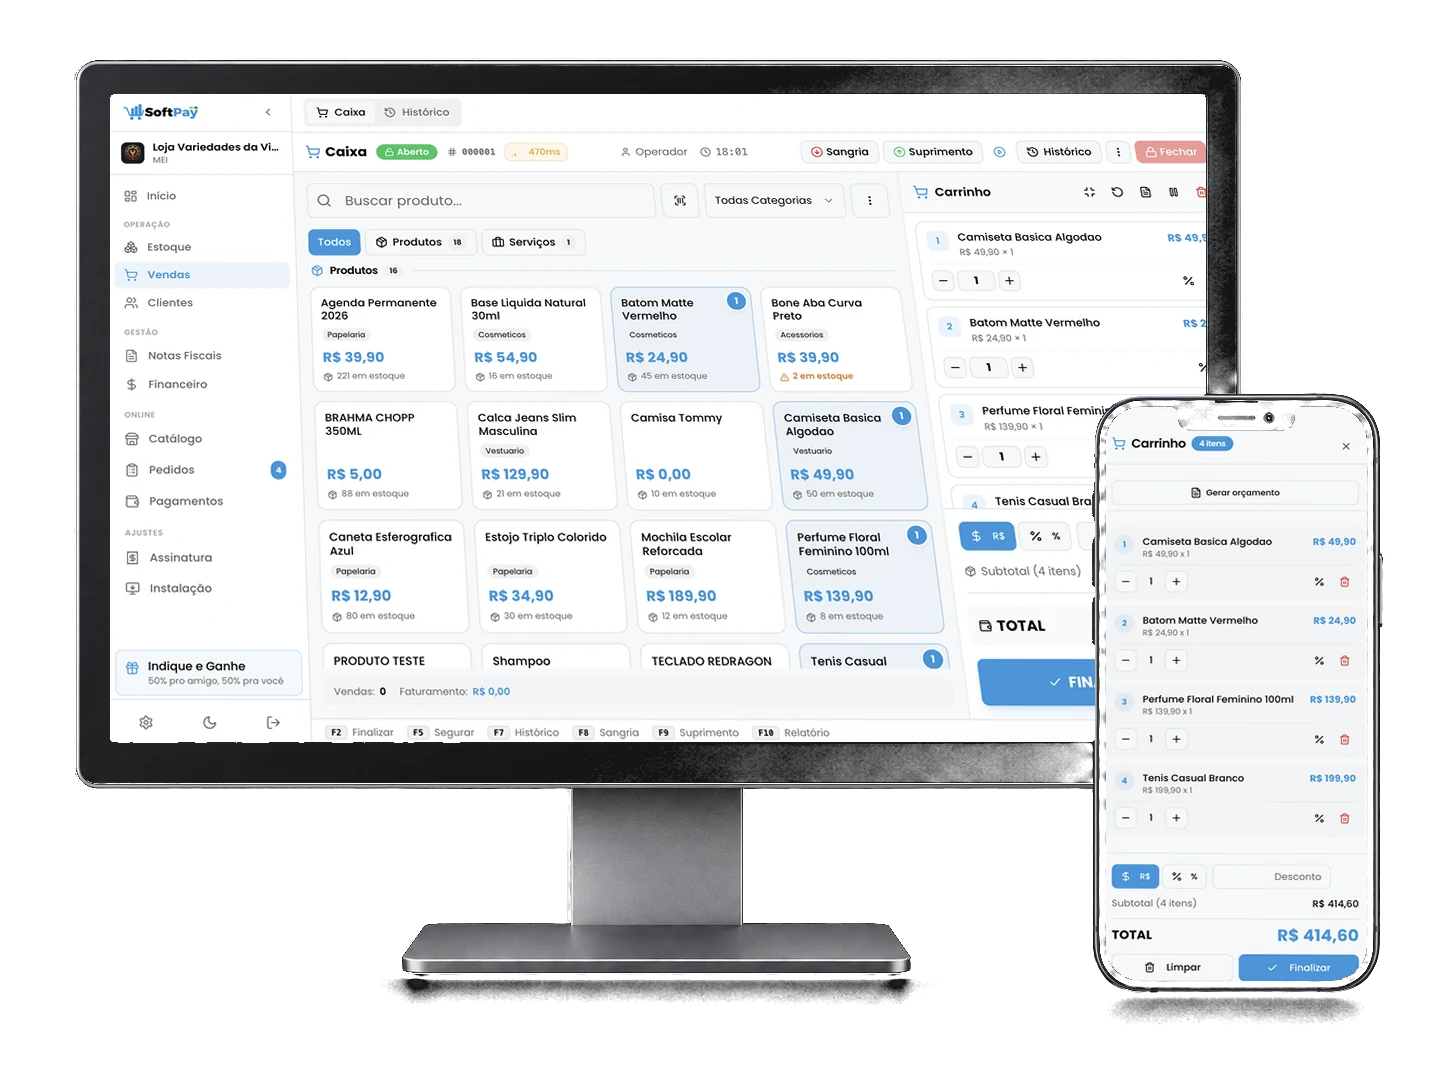
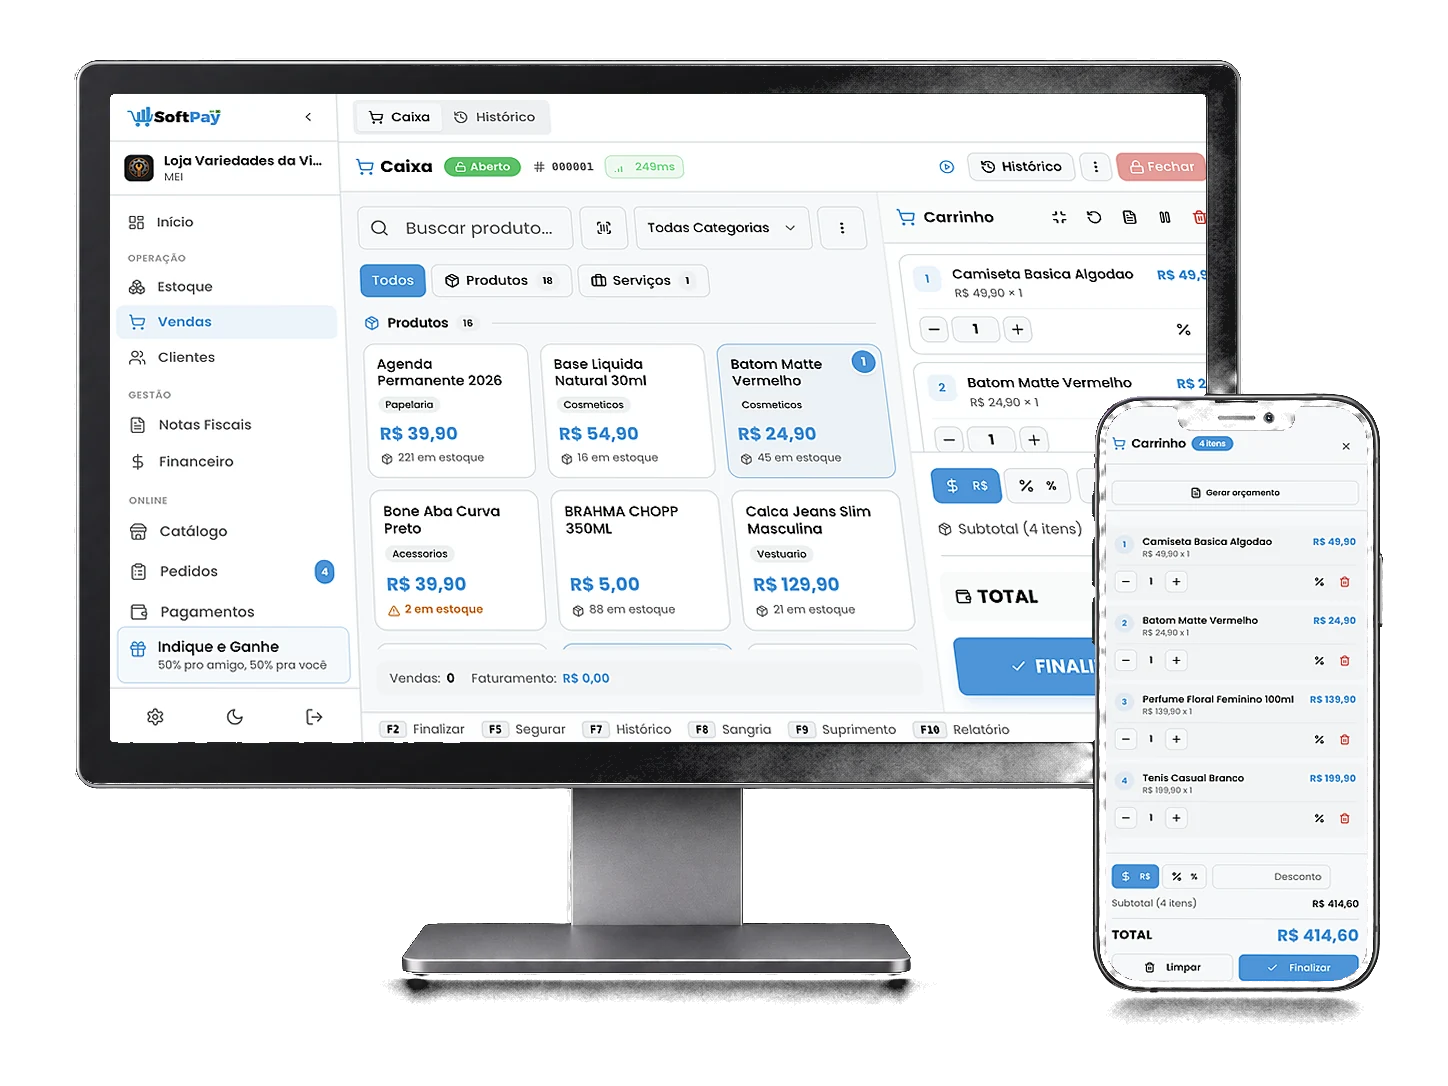
As telas dentro dos aparelhos ficam legíveis: captura menor, mais nitidez, estado limpo
"As imagens dentro dos aparelhos continuam um lixo" (Victor, 20/09/2026).

Não era o arquivo — era a redução. O PDV inteiro cabe num monitor de 253px na
página: a 1440px isso é 5,7x de redução, e o traço fino da fonte desaparece.
Três medidas, comparadas lado a lado em tamanho real (DPR 3):

1. o sistema é capturado a 1152px em vez de 1440 — mesma interface, menos
   elementos por tela, letra ~25% maior no destino;
2. realce de nitidez (unsharp) depois de cada redução: no encaixe da tela
   dentro do aparelho e na geração da versão de 1200px;
3. a grade de produtos e o carrinho voltam ao TOPO antes da foto — os cliques
   que montam a venda deixavam os dois rolados, e a captura anterior começava
   em "PRODUTO TESTE" com o carrinho cortado.

Agora dá para ler nome e preço dos produtos dentro do monitor, e o carrinho do
celular aparece inteiro, com "Limpar" e "Finalizar".

Anotado no LEIA-ME: `de browser stop` e `navegador.close()` fecham o Chrome do
agente e derrubam a sessão logada — roteiro de captura nunca fecha o navegador.

Desktop sem mudança.

diff --git a/public/index.html b/public/index.html
@@ -228,7 +228,7 @@
                     <!-- CELULAR E TABLET: a peça renderizada, com as capturas reais
                          encaixadas nas telas por perspectiva (tools/peca-hero.py).
                          É ela que resolve a moldura que ele apontou. -->
-                    <img class="hero__peca" src="/assets/hero/aparelhos-2-1200.webp?v=eead2ff8bf"
+                    <img class="hero__peca" src="/assets/hero/aparelhos-2-1200.webp?v=796e1c364b"
                          width="1200" height="900" fetchpriority="high" decoding="async"
                          alt="O SoftPay aberto num monitor e num celular: o PDV com o carrinho fechando em R$ 414,60" />
                 </figure>

diff --git a/tools/peca-hero-celular.py b/tools/peca-hero-celular.py
@@ -27,12 +27,12 @@ Uso: python3 tools/peca-hero-celular.py   (Pillow + numpy)
 """
 import pathlib
 import numpy as np
-from PIL import Image
+from PIL import Image, ImageFilter
 
 RAIZ = pathlib.Path(__file__).resolve().parent.parent
 CHROMA = RAIZ / 'assets-fonte/hero/aparelhos-2-chroma.png'
 CAP = RAIZ / 'assets-fonte/hero/capturas'
-PDV = CAP / 'pdv-1440-dpr2.png'          # 2880x1704 — PDV a 1440px, densidade 2
+PDV = CAP / 'pdv-1152-dpr2.png'          # 2304x1364 — PDV a 1152px (interface maior na tela pequena)
 CARRINHO = CAP / 'carrinho-390-dpr3.png'  # 1170x2532 — carrinho no layout de celular, densidade 3
 SAIDA = RAIZ / 'public/assets/hero'
 
@@ -61,7 +61,9 @@ def encaixar(base, mask, tela):
     quad, (x0, y0, x1, y1) = cantos(mask)
     lw, lh = x1 - x0 + 1, y1 - y0 + 1
     # cobre a caixa exatamente: a tela já vem na proporção certa
-    img = tela.resize((lw, lh), Image.LANCZOS)
+    # a redução é grande (o PDV inteiro cabe num monitor de 253px na página):
+    # sem realce, o traço fino da fonte some e a tela vira mancha cinza
+    img = tela.resize((lw, lh), Image.LANCZOS).filter(ImageFilter.UnsharpMask(radius=1.1, percent=85, threshold=2))
     c = coef([(x - x0, y - y0) for x, y in quad], [(0, 0), (lw - 1, 0), (lw - 1, lh - 1), (0, lh - 1)])
     warp = img.transform((lw, lh), Image.PERSPECTIVE, tuple(c), Image.BICUBIC)
     base.paste(warp, (x0, y0), Image.fromarray((mask[y0:y1 + 1, x0:x1 + 1] * 255).astype('uint8')))
@@ -103,7 +105,10 @@ def main():
     alpha[dilatar(verde) | dilatar(magenta)] = 1.0
     final = Image.fromarray(np.dstack([arr, alpha * 255]).astype('uint8'), 'RGBA')
     final.save(SAIDA / 'aparelhos-2.webp', quality=88, method=6)
-    final.resize((1200, round(1200 * final.height / final.width)), Image.LANCZOS).save(SAIDA / 'aparelhos-2-1200.webp', quality=88, method=6)
+    menor = final.resize((1200, round(1200 * final.height / final.width)), Image.LANCZOS)
+    rgb = Image.merge('RGB', menor.split()[:3]).filter(ImageFilter.UnsharpMask(radius=0.8, percent=60, threshold=2))
+    menor = Image.merge('RGBA', (*rgb.split(), menor.split()[3]))
+    menor.save(SAIDA / 'aparelhos-2-1200.webp', quality=90, method=6)
     final.save('/tmp/peca2-final.png')
     print('ok')
 

diff --git a/assets-fonte/hero/LEIA-ME.md b/assets-fonte/hero/LEIA-ME.md
@@ -88,3 +88,20 @@ Como capturar de novo: navegador do agente logado (`de browser start`), aba de
 fundo por `abaSemFoco()`, `Emulation.setDeviceMetricsOverride` na largura
 desejada. Os cliques nos produtos só montam o carrinho — nunca finalizar venda.
 A sessão do painel `/admin` tem dados reais de clientes: não fotografar.
+
+### Por que 1152px e não 1440 (20/09/2026)
+
+O Victor: "as imagens dentro dos aparelhos continuam um lixo". Não era o
+arquivo: o PDV inteiro cabe num monitor de 253px na página — 5,7x de redução a
+1440px, que apaga o traço fino da fonte. Três medidas, medidas lado a lado em
+tamanho real:
+
+1. capturar o sistema a **1152px** em vez de 1440 (mesma interface, menos
+   elementos por tela — a letra chega 25% maior no destino);
+2. **realce de nitidez** (unsharp) depois de cada redução, no encaixe da tela e
+   na versão de 1200px;
+3. rolar a grade de produtos e o carrinho de volta ao **topo** antes de
+   fotografar — os cliques que montam a venda deixam os dois rolados.
+
+`de browser stop`/`navegador.close()` fecham o Chrome do agente e derrubam a
+sessão: nos roteiros de captura, **nunca fechar o navegador**.
